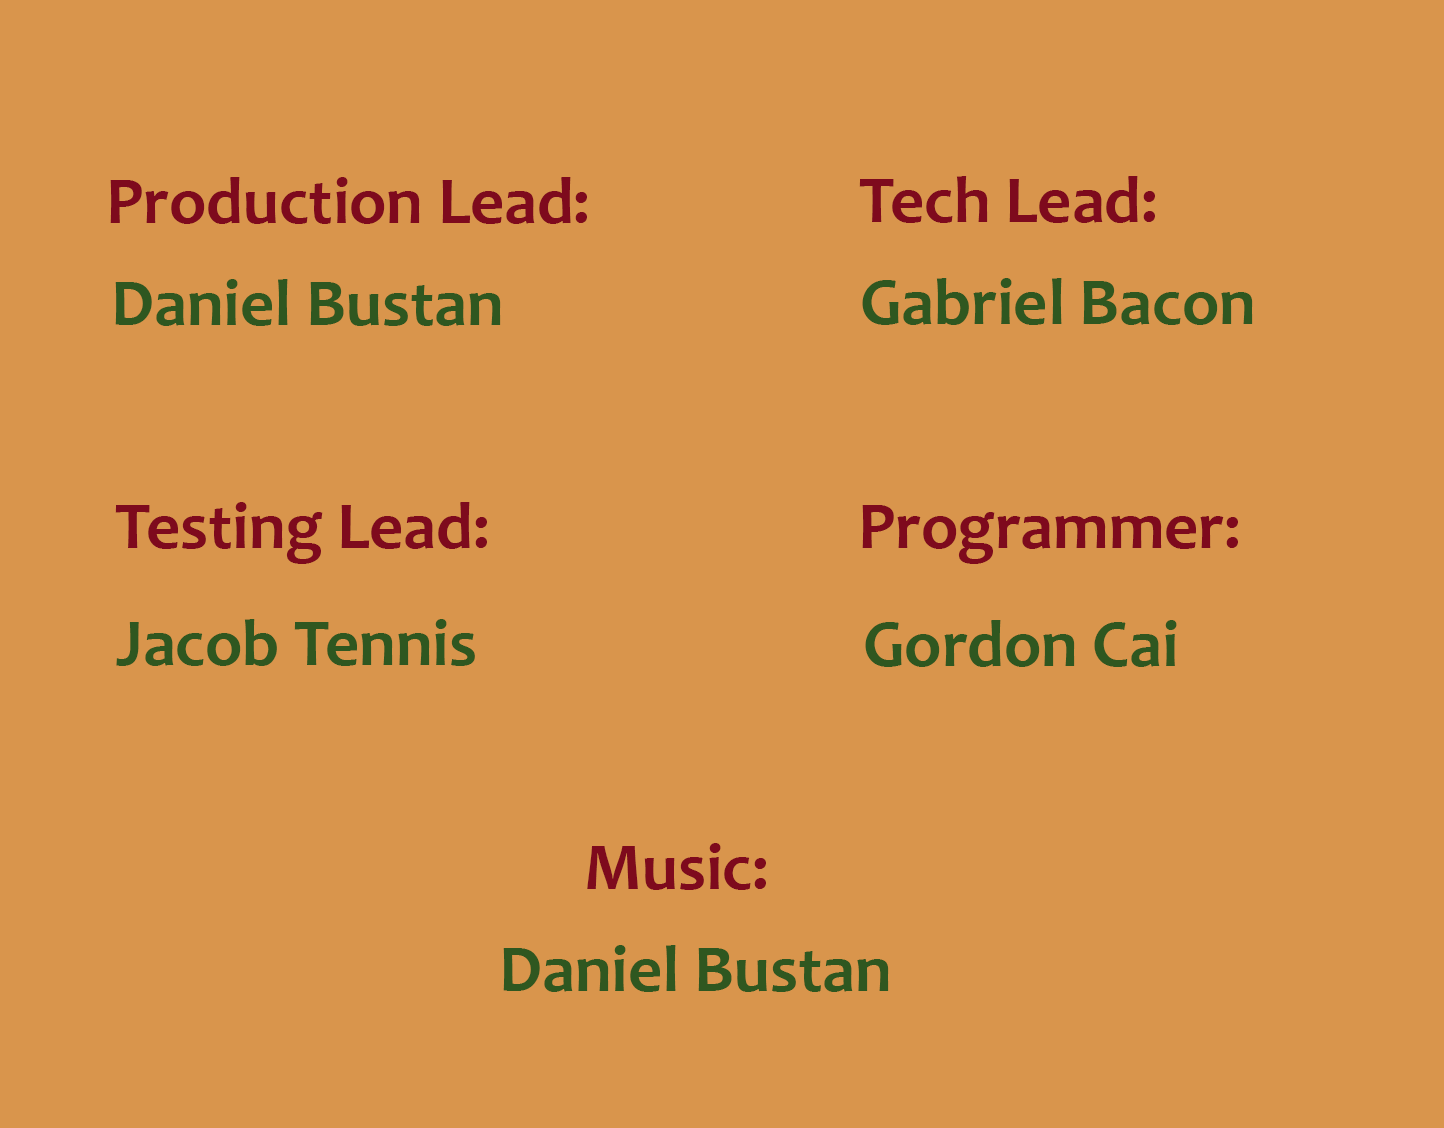
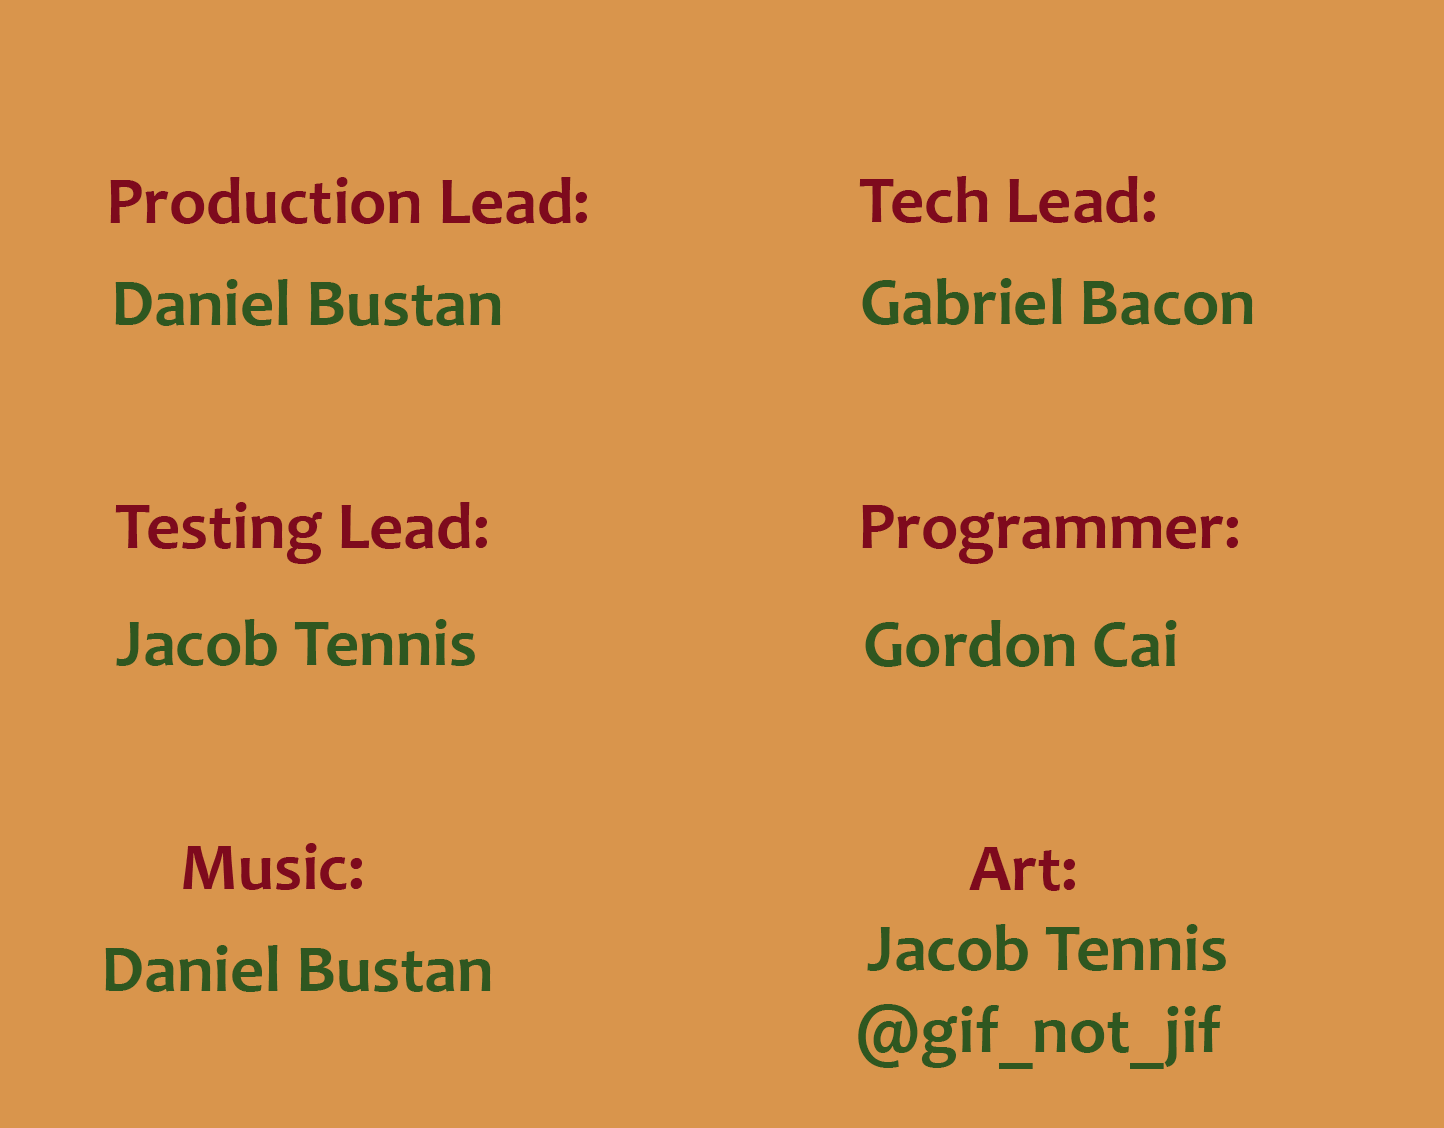
Updated Credits page.

diff --git a/src/scenes/Credits.js b/src/scenes/Credits.js
@@ -10,7 +10,7 @@ class Credits extends Phaser.Scene {
     create(){
         const screenWidth = this.sys.game.config.width;
         const screenHeight = this.sys.game.config.height;
-        this.credits = this.add.image(screenWidth/2, screenHeight/2, 'credits1').setScale(0.8);
+        this.credits = this.add.image(screenWidth/2, 350, 'credits1').setScale(0.8);
         /*this.input.on('pointerdown', () =>{
             this.scene.start('main_menu');
         });*/
